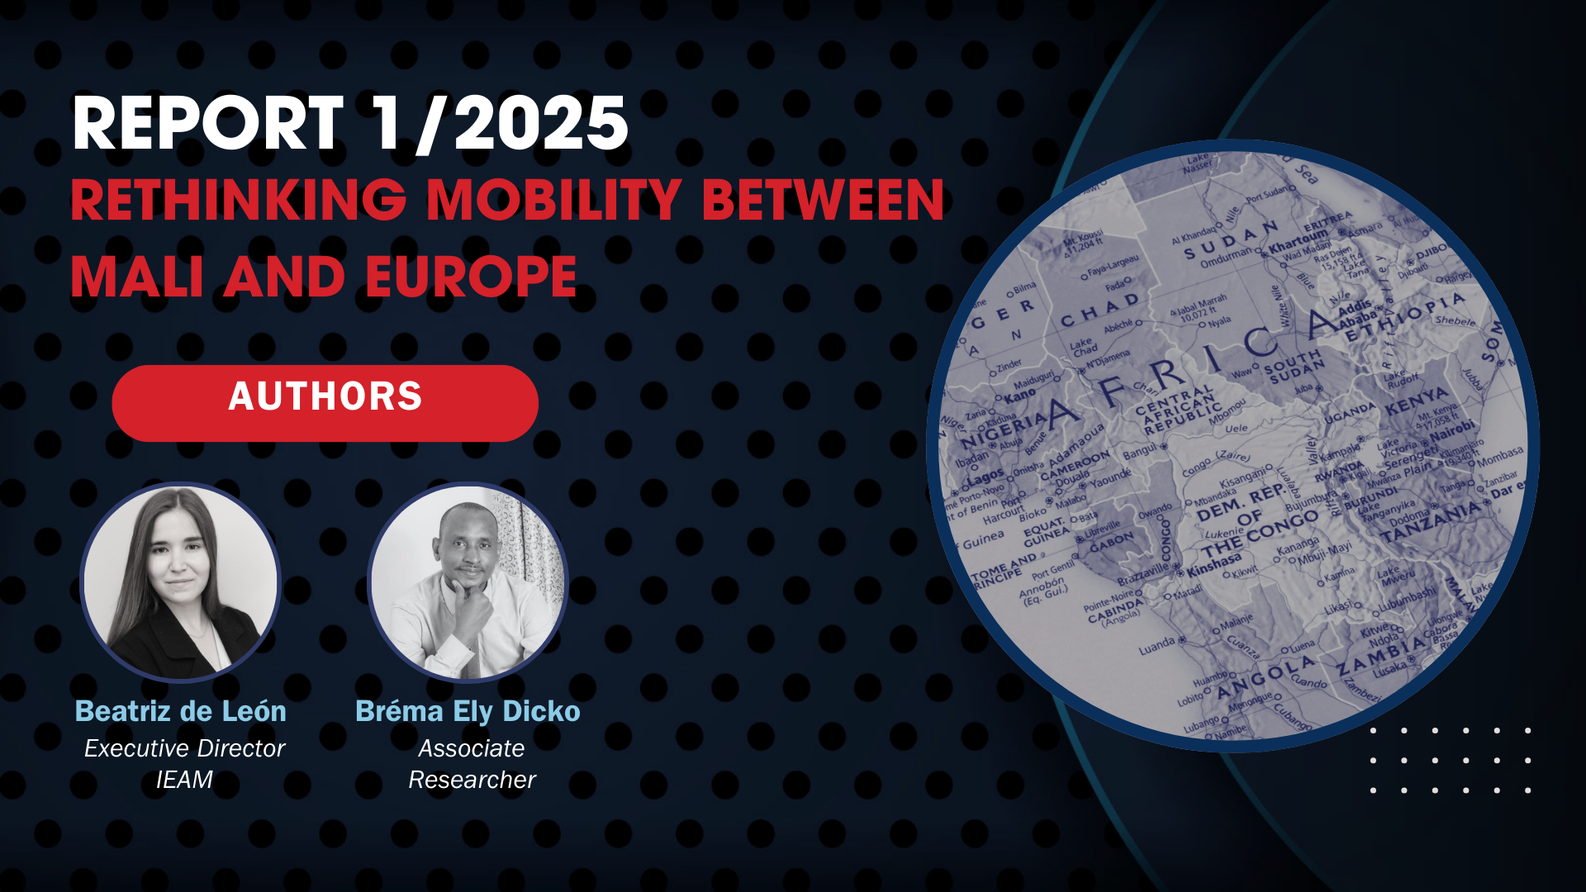
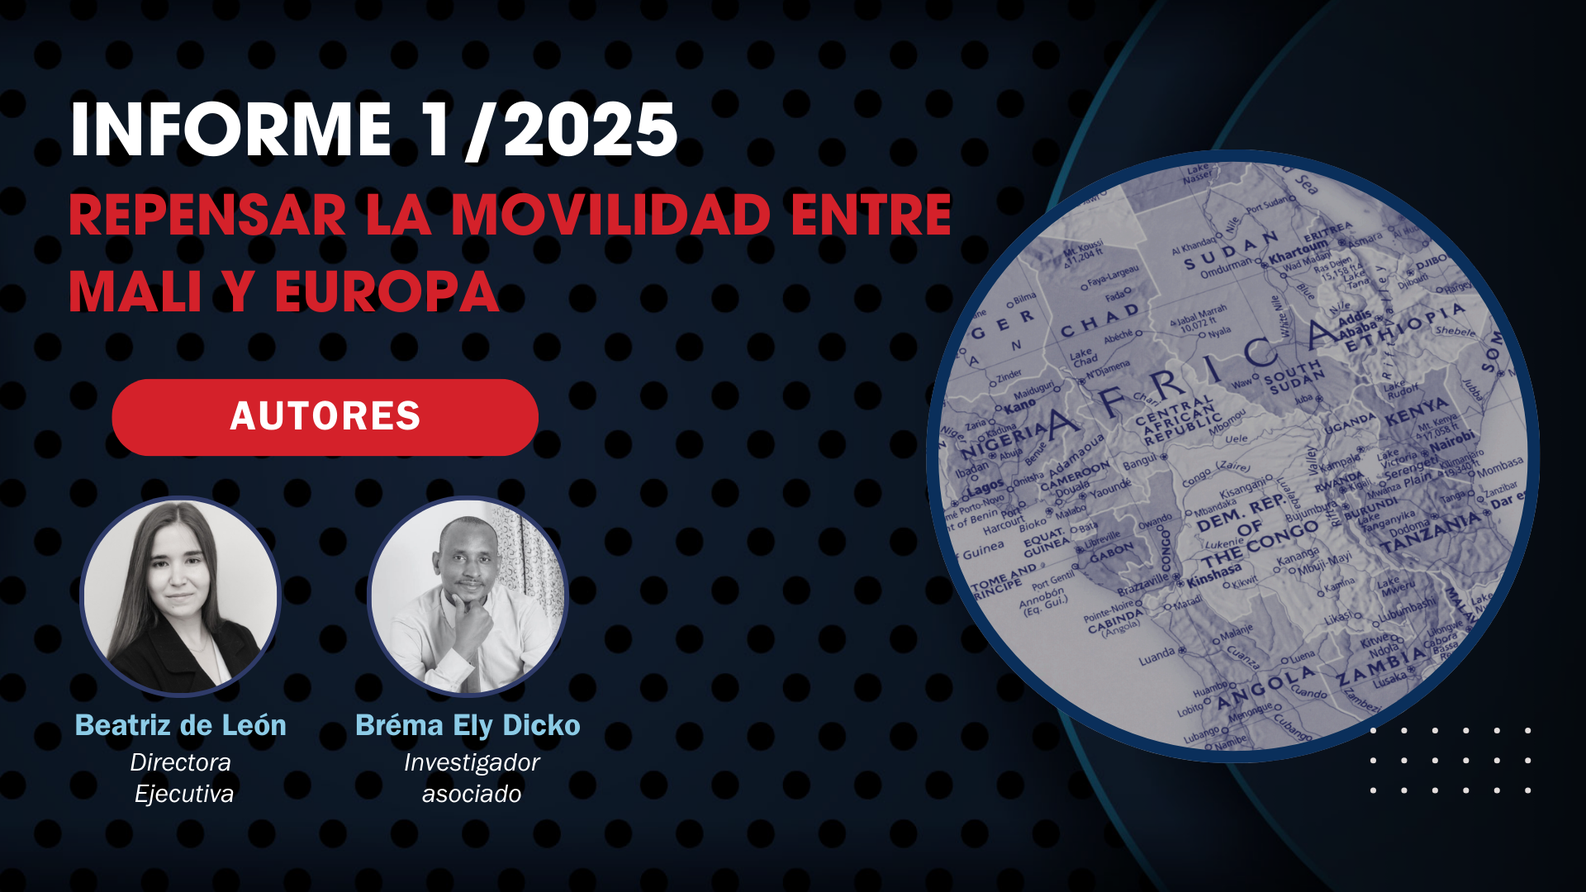
ajustes 21 enero 2026

Changed region(s): [[0.5938, 0.1528, 0.9688, 0.8556], [0.0312, 0.3972, 0.375, 0.9167], [0.0312, 0.0917, 0.625, 0.3667]]

diff --git a/src/data/events.ts b/src/data/events.ts
@@ -3,6 +3,7 @@ export interface EventAgendaItem {
   title: string;
   title_en?: string;
   speaker?: string;
+  speaker_en?: string;
 }
 
 export interface EventSpeaker {
@@ -26,6 +27,8 @@ export interface EventItem {
   location_en?: string;
   format: string;
   format_en?: string;
+  agendaTitle?: string;
+  agendaTitle_en?: string;
   heroImage: string;
   heroImage_en?: string;
   highlightImage?: string;
@@ -51,6 +54,8 @@ export const events: EventItem[] = [
     location_en: "Rome, Italy",
     format: "Chatham House",
     format_en: "Chatham House",
+    agendaTitle: "Programa del taller",
+    agendaTitle_en: "Workshop Programme",
     heroImage: "/images/workshop-es-rome.png",
     heroImage_en: "/images/workshop-en-rome.png",
     summary: "El IEAM organiza en Roma un taller para comparar los enfoques italianos y españoles sobre migración y evaluar su percepción por los socios africanos.",
@@ -78,12 +83,46 @@ export const events: EventItem[] = [
       <p class="mt-6"><i>For more information, you can contact the organization via email at <a href="mailto:beatriz.deleoncobo@ieam.es" class="text-blue-600 hover:underline">beatriz.deleoncobo@ieam.es</a>.</i></p>
     `,
     agenda: [
-      { time: "09:30", title: "Sesión de apertura – Italia, España, la UE y África: ¿hacia una visión común de la movilidad?", title_en: "Opening session – Italy, Spain, the EU and Africa: toward a common vision of mobility?", speaker: "Expertos / Experts" },
-      { time: "10:30", title: "Sesión de trabajo 1 – Rutas cambiantes: Mediterráneo Central, Mediterráneo Occidental y Atlántico", title_en: "Working session 1 – Changing routes: Central Mediterranean, Western Mediterranean and Atlantic", speaker: "Mesa redonda / Roundtable" },
-      { time: "12:00", title: "Pausa para almuerzo", title_en: "Lunch break", speaker: "" },
-      { time: "13:00", title: "Sesión de trabajo 2 – Asociaciones con Estados africanos: seguridad, desarrollo y “paquetes” de movilidad", title_en: "Working session 2 – Partnerships with African states: security, development and mobility “packages”", speaker: "Mesa redonda / Roundtable" },
-      { time: "14:30", title: "Sesión de trabajo 3 – Economías de tránsito, crimen organizado y lucha contra el tráfico de migrantes", title_en: "Working session 3 – Transit economies, organised crime and the fight against migrant smuggling", speaker: "Mesa redonda / Roundtable" },
-      { time: "16:00", title: "Clausura", title_en: "Closing remarks", speaker: "" }
+      {
+        time: "9:30 am",
+        title: "Sesión de apertura – Italia, España, la UE y África: ¿hacia una visión común de la movilidad?",
+        title_en: "Opening session – Italy, Spain, the EU and Africa: toward a common vision of mobility?",
+        speaker: "Esta sesión alineará las perspectivas sobre la “gobernanza de la movilidad” e identificará dónde convergen o divergen los enfoques de la UE y de África.",
+        speaker_en: "This session will align perspectives on “mobility governance” and identify where EU and African approaches converge or diverge"
+      },
+      {
+        time: "10:30 am",
+        title: "Sesión de trabajo 1 – Rutas cambiantes: Mediterráneo Central, Mediterráneo Occidental y Atlántico",
+        title_en: "Working session 1 – Changing routes: Central Mediterranean, Western Mediterranean and Atlantic",
+        speaker: "Esta sesión analizará los cambios en los flujos y rutas migratorias, el papel de los países de tránsito y cómo las medidas de la UE y de los Estados nacionales influyen en la dinámica de las rutas y en los resultados de protección.",
+        speaker_en: "This session will analyse shifts in migration flows and routes, the role of transit countries, and how EU and national measures influence route dynamics and protection outcomes."
+      },
+      {
+        time: "12:00 pm",
+        title: "Pausa para almuerzo",
+        title_en: "Lunch break"
+      },
+      {
+        time: "1:00 pm",
+        title: "Sesión de trabajo 2 – Asociaciones con Estados africanos: seguridad, desarrollo y “paquetes” de movilidad",
+        title_en: "Working session 2 – Partnerships with African states: security, development and mobility “packages”",
+        speaker: "Esta sesión examinará cómo se diseñan e implementan los marcos de cooperación, evaluará sus efectos en la práctica y explorará cómo los socios africanos perciben su legitimidad y sostenibilidad.",
+        speaker_en: "This session will examine how cooperation frameworks are designed and implemented, assess their real-world effects, and explore how African partners perceive their legitimacy and sustainability."
+      },
+      {
+        time: "2:30 pm",
+        title: "Sesión de trabajo 3 – Economías de tránsito, crimen organizado y lucha contra el tráfico de migrantes",
+        title_en: "Working session 3 – Transit economies, organised crime and the fight against migrant smuggling",
+        speaker: "Esta sesión analizará las lógicas que sustentan las redes de facilitación y las economías de tránsito, y explorará cómo debilitar las redes criminales sin aumentar los riesgos para los migrantes ni perjudicar a las comunidades locales.",
+        speaker_en: "This session will examine the logics underpinning facilitation networks and transit economies and explore how to weaken criminal networks without increasing risks for migrants or harming local communities."
+      },
+      {
+        time: "4:00 pm",
+        title: "Clausura",
+        title_en: "Closing remarks",
+        speaker: "Esta sesión consolidará los principales hallazgos, los traducirá en recomendaciones operativas e identificará vías de seguimiento.",
+        speaker_en: "This session will consolidate main insights, translate them into operational recommendations and identify follow-up avenues."
+      }
     ],
     speakers: []
   },
@@ -142,8 +181,8 @@ export const events: EventItem[] = [
     `,
     agenda: [],
     speakers: [
-      { name: "Viktor Mársai", role: "Migration Research Institute (Anfitrión)" },
-      { name: "Beatriz de León", role: "Directora Ejecutiva IEAM" },
+      { name: "Viktor Mársai", role: "Migration Research Institute (Anfitrión)", role_en: "Migration Research Institute (Host)" },
+      { name: "Beatriz de León", role: "Directora Ejecutiva IEAM", role_en: "Executive Director IEAM" },
       { name: "Balázs Orbán", role: "Director Político PM Hungría" },
       { name: "Rocío de Meer", role: "Congreso de los Diputados (España)" }
     ]
@@ -268,8 +307,6 @@ export const events: EventItem[] = [
     content: `
       <p>El Foro de Diálogo Mediterráneo 2025 inauguró el año en Rabat con un encuentro de alto nivel centrado en uno de los desafíos más urgentes para el norte de África y el Mediterráneo en general: la migración irregular. Celebrado en la Rabat Business School de la Universidad Internacional de Rabat (UIR), el foro reunió a expertos internacionales, responsables políticos, académicos y actores de la sociedad civil, reforzando el papel de Rabat como un centro emergente para el diálogo estratégico sobre la gobernanza mediterránea.</p>
       
-      <img src="/images/rabat 1.png" alt="Foro de Diálogo Mediterráneo Rabat" class="w-full h-auto rounded-lg my-8 shadow-md" />
-
       <p>Organizado por Diálogo Mediterráneo en colaboración con EDEN Maroc y AMSED, el foro atrajo una fuerte participación desde temprano, llenando el recinto con especialistas deseosos de explorar las complejidades de la migración en la región.</p>
 
       <h3 class="text-xl font-serif font-bold text-[var(--color-text-primary)] mt-8 mb-3">Panel 1 – Comprendiendo los impulsores y el impacto de la migración irregular en Marruecos en el contexto mediterráneo</h3>
@@ -318,8 +355,6 @@ export const events: EventItem[] = [
     content_en: `
       <p>The Mediterranean Dialogue Forum 2025 opened the year in Rabat with a high-level gathering focused on one of the most pressing challenges for North Africa and the wider Mediterranean: irregular migration. Held at the Rabat Business School of the International University of Rabat (UIR), the forum brought together international experts, policymakers, academics, and civil-society actors, reinforcing Rabat’s role as an emerging hub for strategic dialogue on Mediterranean governance.</p>
       
-      <img src="/images/rabat 1.png" alt="Rabat Mediterranean Dialogue Forum" class="w-full h-auto rounded-lg my-8 shadow-md" />
-
       <p>Organised by Mediterranean Dialogue in partnership with EDEN Maroc and AMSED, the forum attracted strong participation from early in the morning, filling the venue with specialists eager to explore the complexities of migration in the region.</p>
 
       <h3 class="text-xl font-serif font-bold text-[var(--color-text-primary)] mt-8 mb-3">Panel 1 – Understanding the Drivers and Impact of Irregular Migration in Morocco within the Mediterranean Context</h3>
@@ -509,7 +544,7 @@ export const events: EventItem[] = [
       { name: "Loubna El Hassouni", role: "", group: "Sesión en Madrid", group_en: "Madrid Session" },
       { name: "Dr. Mohamed Wounouki", role: "", group: "Sesión en Madrid", group_en: "Madrid Session" },
       { name: "Malak Darwish", role: "", group: "Sesión en Madrid", group_en: "Madrid Session" },
-      { name: "Tasnim Idriss", role: "", group: "Sesión en Madrid", group_en: "Madrid Session" },
+      { name: "Tasnim Idriss", role: "Coordinadora del Norte de África", role_en: "North Africa Coordinator", group: "Sesión en Madrid", group_en: "Madrid Session" },
       // Brussels Session
       { name: "Juan Fernando López Aguilar", role: "MEP (S&D)", group: "Sesión en Bruselas", group_en: "Brussels Session" },
       { name: "Cecilia Strada", role: "MEP (S&D)", group: "Sesión en Bruselas", group_en: "Brussels Session" },

diff --git a/src/pages/EventPage.tsx b/src/pages/EventPage.tsx
@@ -96,7 +96,9 @@ const EventPage = () => {
             {event.agenda && event.agenda.length > 0 && (
               <div className="border-t hairline pt-6 space-y-3">
                 <h2 className="text-2xl font-serif font-bold text-[var(--color-text-primary)]">
-                  {i18n.language.startsWith('en') ? 'Agenda' : 'Agenda'}
+                  {isEn
+                    ? (event.agendaTitle_en || event.agendaTitle || 'Agenda')
+                    : (event.agendaTitle || 'Agenda')}
                 </h2>
                 <ul className="space-y-3">
                   {event.agenda.map((item, idx) => {
@@ -112,10 +114,14 @@ const EventPage = () => {
                           </div>
                         )}
                         <div className="flex gap-4">
-                          {timePart && <span className="min-w-[64px] text-sm font-bold text-[var(--color-text-primary)]">{timePart}</span>}
+                          {timePart && <span className="min-w-[85px] text-sm font-bold text-[var(--color-text-primary)]">{timePart}</span>}
                           <div>
                             <div className="font-semibold">{isEn && item.title_en ? item.title_en : item.title}</div>
-                            {item.speaker && <div className="text-sm text-slate-500">{item.speaker}</div>}
+                            {(isEn && item.speaker_en ? item.speaker_en : item.speaker) && (
+                              <div className="text-sm text-slate-500 mt-1">
+                                {isEn && item.speaker_en ? item.speaker_en : item.speaker}
+                              </div>
+                            )}
                           </div>
                         </div>
                       </li>
@@ -138,20 +144,21 @@ const EventPage = () => {
                 />
               </div>
             )}
-            {event.speakers && event.speakers.length > 0 && (
+            {event.speakers && event.speakers.length > 0 && event.slug !== 'dialogo-mediterraneo-rabat' && (
               <div className="border hairline p-6 bg-[var(--color-paper-warm)]">
                 <h3 className="text-lg font-serif font-bold text-[var(--color-text-primary)] mb-4">
                   {i18n.language.startsWith('en') ? 'Speakers' : 'Ponentes'}
                 </h3>
 
                 {(() => {
-                  const hasGroups = event.speakers.some((s) => s.group);
+                  const filteredSpeakers = event.speakers.filter(speaker => speaker.name.includes('Beatriz de León') || speaker.name.includes('Viktor') || speaker.name.includes('Tasnim'));
+                  const hasGroups = filteredSpeakers.some((s) => s.group);
 
                   if (hasGroups) {
                     const groups: Record<string, typeof event.speakers> = {};
                     const groupOrder: string[] = [];
 
-                    event.speakers.forEach((speaker) => {
+                    filteredSpeakers.forEach((speaker) => {
                       const groupName =
                         i18n.language.startsWith('en')
                           ? speaker.group_en || speaker.group || "General"
@@ -192,7 +199,8 @@ const EventPage = () => {
 
                   return (
                     <ul className="space-y-3">
-                      {event.speakers.map((speaker) => (
+                      {filteredSpeakers
+                        .map((speaker) => (
                         <li key={speaker.name} className="text-slate-700">
                           <div className="font-semibold leading-tight">{speaker.name}</div>
                           {speaker.role && <div className="text-sm text-slate-500 mt-0.5">{isEn && speaker.role_en ? speaker.role_en : speaker.role}</div>}

diff --git a/src/components/SearchModal.tsx b/src/components/SearchModal.tsx
@@ -4,6 +4,8 @@ import { Link } from 'react-router-dom';
 import { articles } from '@/data/articles';
 import { events } from '@/data/events';
 
+import { useTranslation } from 'react-i18next';
+
 interface SearchResult {
     type: 'article' | 'event';
     title: string;
@@ -19,6 +21,8 @@ interface SearchModalProps {
 }
 
 const SearchModal: React.FC<SearchModalProps> = ({ isOpen, onClose }) => {
+    const { i18n } = useTranslation();
+    const isEn = i18n.language.startsWith('en');
     const [query, setQuery] = useState('');
     const [isVisible, setIsVisible] = useState(false);
 
@@ -45,35 +49,39 @@ const SearchModal: React.FC<SearchModalProps> = ({ isOpen, onClose }) => {
         const articleResults: SearchResult[] = articles
             .filter(article =>
                 article.title.toLowerCase().includes(normalizedQuery) ||
+                (article.title_en && article.title_en.toLowerCase().includes(normalizedQuery)) ||
                 article.subtitle.toLowerCase().includes(normalizedQuery) ||
+                (article.subtitle_en && article.subtitle_en.toLowerCase().includes(normalizedQuery)) ||
                 article.author.name.toLowerCase().includes(normalizedQuery)
             )
             .map(article => ({
                 type: 'article',
-                title: article.title,
-                subtitle: article.subtitle,
+                title: (isEn && article.title_en) ? article.title_en : article.title,
+                subtitle: (isEn && article.subtitle_en) ? article.subtitle_en : article.subtitle,
                 slug: `/analisis/${article.slug}`,
                 date: article.publishDate,
-                category: article.type
+                category: (isEn && article.type_en) ? article.type_en : article.type
             }));
 
         const eventResults: SearchResult[] = events
             .filter(event =>
                 event.title.toLowerCase().includes(normalizedQuery) ||
+                (event.title_en && event.title_en.toLowerCase().includes(normalizedQuery)) ||
                 event.subtitle.toLowerCase().includes(normalizedQuery) ||
+                (event.subtitle_en && event.subtitle_en.toLowerCase().includes(normalizedQuery)) ||
                 event.location.toLowerCase().includes(normalizedQuery)
             )
             .map(event => ({
                 type: 'event',
-                title: event.title,
-                subtitle: event.subtitle,
+                title: (isEn && event.title_en) ? event.title_en : event.title,
+                subtitle: (isEn && event.subtitle_en) ? event.subtitle_en : event.subtitle,
                 slug: `/eventos/${event.slug}`,
                 date: event.date,
-                category: event.category
+                category: (isEn && event.category_en) ? event.category_en : event.category
             }));
 
         return [...articleResults, ...eventResults].slice(0, 8); // Limit to 8 results
-    }, [query]);
+    }, [query, isEn]);
 
     if (!isVisible && !isOpen) return null;
 

diff --git a/src/data/articles.ts b/src/data/articles.ts
@@ -404,8 +404,9 @@ export const articles: Article[] = [
         readTime: '8 min',
         author: {
             name: 'Equipo IEAM',
-            role: 'Análisis de datos',
-            role_en: 'Data Analysis',
+            name_en: 'IEAM Team',
+            role: 'Investigación',
+            role_en: 'Research',
             image: '/favicon-new.png',
             bio: 'Unidad de datos y análisis territorial del IEAM.',
             bio_en: 'IEAM Data and Territorial Analysis Unit.'
@@ -483,6 +484,7 @@ export const articles: Article[] = [
         readTime: '6 min',
         author: {
             name: 'Equipo IEAM',
+            name_en: 'IEAM Team',
             role: 'Investigación',
             role_en: 'Research',
             image: '/favicon-new.png',
@@ -490,6 +492,7 @@ export const articles: Article[] = [
             bio_en: 'Research and analysis of public policies.'
         },
         pullQuote: 'El consenso político se fractura en los detalles de implementación del Pacto.',
+        pullQuote_en: 'The political consensus is fractured on the details of the Pact\'s implementation.',
         materials: [
             {
                 label: 'Descargar infografía (ES)',
@@ -576,6 +579,7 @@ export const articles: Article[] = [
         readTime: '8 min',
         author: {
             name: 'Equipo IEAM',
+            name_en: 'IEAM Team',
             role: 'Investigación',
             role_en: 'Research',
             image: '/favicon-new.png',
@@ -595,6 +599,7 @@ export const articles: Article[] = [
             }
         ],
         pullQuote: 'Un sistema de retorno creíble debe basarse en la confianza, la transparencia y el respeto a los derechos humanos.',
+        pullQuote_en: 'A credible return system must be based on trust, transparency, and respect for human rights.',
         content: `
       <p>Desde IEAM Instituto Español de Análisis Migratorio, destacamos la reciente reunión organizada por Frontex los días 5 y 6 de noviembre de 2025 en Varsovia, centrada en el desarrollo de un sistema integrado de monitoreo de retornos en la UE.</p>
       <p>El encuentro reunió a representantes de la Oficina de Derechos Fundamentales (FRO) de Frontex para debatir cómo fortalecer un sistema de retorno humano, seguro y respetuoso con los derechos fundamentales.</p>
@@ -735,8 +740,9 @@ export const articles: Article[] = [
         readTime: '5 min',
         author: {
             name: 'Equipo IEAM',
-            role: 'Análisis de datos',
-            role_en: 'Data Analysis',
+            name_en: 'IEAM Team',
+            role: 'Investigación',
+            role_en: 'Research',
             image: '/favicon-new.png',
             bio: 'Unidad de datos y análisis territorial del IEAM.',
             bio_en: 'IEAM Data and Territorial Analysis Unit.'

diff --git a/src/pages/ResearchPage.tsx b/src/pages/ResearchPage.tsx
@@ -38,7 +38,8 @@ const ResearchPage = () => {
         return {
             title: (isEn && article.title_en) ? article.title_en : article.title,
             subtitle: (isEn && article.subtitle_en) ? article.subtitle_en : article.subtitle,
-            type: isEn ? getLocalizedType(article.type) : article.type
+            type: isEn ? getLocalizedType(article.type) : article.type,
+            image: (isEn && article.heroImage_en) ? article.heroImage_en : article.heroImage
         };
     };
 
@@ -129,7 +130,7 @@ const ResearchPage = () => {
                                     variant="featured"
                                     title={locFeatured.title}
                                     summary={locFeatured.subtitle}
-                                    image={featured.heroImage}
+                                    image={locFeatured.image}
                                     badge={locFeatured.type}
                                     metadata={{ date: featured.publishDate, author: featured.author.name }}
                                     ctaLink={`/analisis/${featured.slug}`}
@@ -149,7 +150,7 @@ const ResearchPage = () => {
                                             variant="standard"
                                             title={locPub.title}
                                             summary={locPub.subtitle}
-                                            image={pub.heroImage}
+                                            image={locPub.image}
                                             badge={locPub.type}
                                             metadata={{ date: pub.publishDate, author: pub.author.name }}
                                             ctaLink={`/analisis/${pub.slug}`}

diff --git a/src/components/ui/UnifiedCard.tsx b/src/components/ui/UnifiedCard.tsx
@@ -1,4 +1,5 @@
 import React from 'react';
+import { useTranslation } from 'react-i18next';
 import { ArrowRight, Calendar, MapPin, Clock, FileText, Video, Mic } from 'lucide-react';
 import { cn } from '@/lib/utils'; // Assuming you have a utils file for class merging, if not I'll create a simple helper or remove it.
 
@@ -54,6 +55,7 @@ export const Card: React.FC<CardProps> = ({
   className,
   onClick,
 }) => {
+  const { i18n } = useTranslation();
   const isFeatured = variant === 'featured';
   const isCompact = variant === 'compact';
   const badgeTheme = getBadgeTheme(badge);
@@ -195,7 +197,7 @@ export const Card: React.FC<CardProps> = ({
             )}
             {metadata?.author && (
               <span className="text-slate-700 normal-case">
-                por {metadata.author}
+                {i18n.language.startsWith('en') ? `by ${metadata.author}` : `por ${metadata.author}`}
               </span>
             )}
           </div>
@@ -218,7 +220,7 @@ export const Card: React.FC<CardProps> = ({
 
         {/* Footer / CTA */}
         <div className="mt-auto pt-4 flex items-center text-[#0A2540] font-bold text-sm group-hover:translate-x-1 transition-transform">
-          {ctaText || "Leer más"}
+          {ctaText || (i18n.language.startsWith('en') ? 'Read more' : 'Leer más')}
           <ArrowRight className="w-4 h-4 ml-2" />
         </div>
       </div>

diff --git a/src/pages/EventsPage.tsx b/src/pages/EventsPage.tsx
@@ -207,7 +207,12 @@ const EventsPage = () => {
                                                 {locEvent.location}
                                             </span>
                                             <span className="bg-slate-100 px-2 py-1 rounded-full border border-slate-200">
-                                                {locEvent.category}
+                                                {(event.slug === 'cumbre-szeged-2025' || event.slug === 'jornada-canarias-sahel') 
+                                                    ? (i18n.language.startsWith('en') ? 'External Event' : 'Evento Externo')
+                                                    : (event.slug === 'dialogo-mediterraneo-rabat' || event.slug === 'foro-bruselas-2024')
+                                                        ? (i18n.language.startsWith('en') ? 'Mediterranean Dialogue Event' : 'Evento Diálogo Mediterráneo')
+                                                        : locEvent.category
+                                                }
                                             </span>
                                         </div>
                                         <h3 className="text-xl md:text-2xl font-serif font-bold text-[#0A2540] mb-3 group-hover:text-[#006994] transition-colors line-clamp-2">

diff --git a/src/pages/ArticlePage.tsx b/src/pages/ArticlePage.tsx
@@ -152,7 +152,7 @@ const ArticlePage = () => {
                                         decoding="async"
                                     />
                                     <div className="text-center sm:text-left">
-                                        <h3 className="text-lg font-serif font-bold text-[var(--color-text-primary)] mb-1">{auth.name}</h3>
+                                        <h3 className="text-lg font-serif font-bold text-[var(--color-text-primary)] mb-1">{(i18n.language === 'en' && (auth as any).name_en) ? (auth as any).name_en : auth.name}</h3>
                                         <p className="text-slate-600 text-sm">
                                             {(i18n.language === 'en' && auth.role_en) ? auth.role_en : auth.role}
                                         </p>
